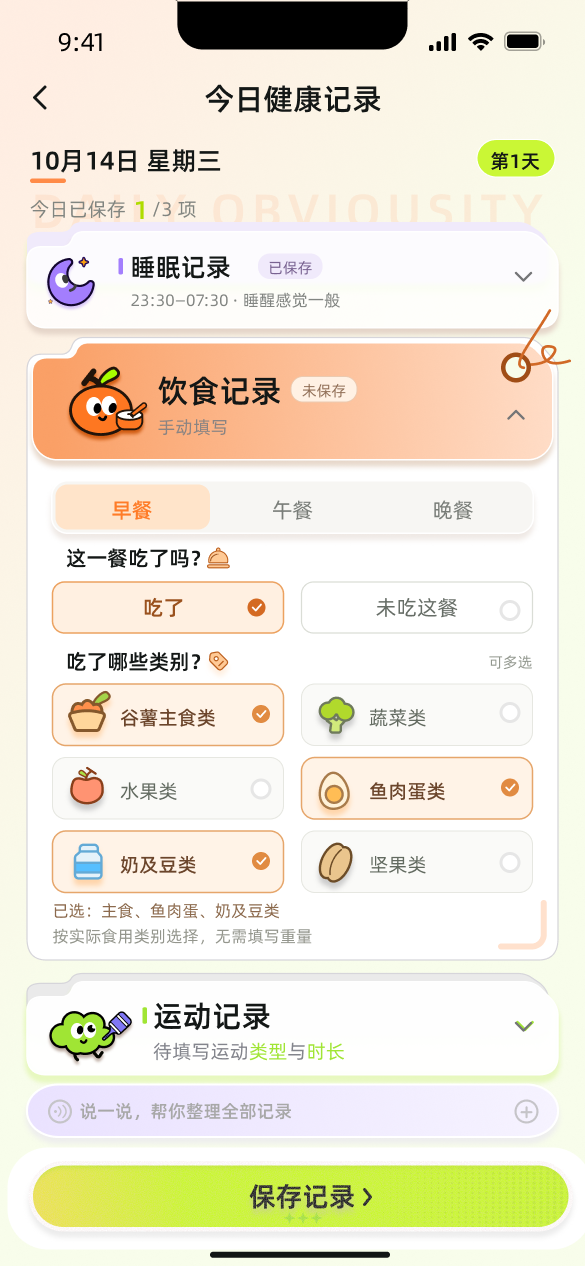
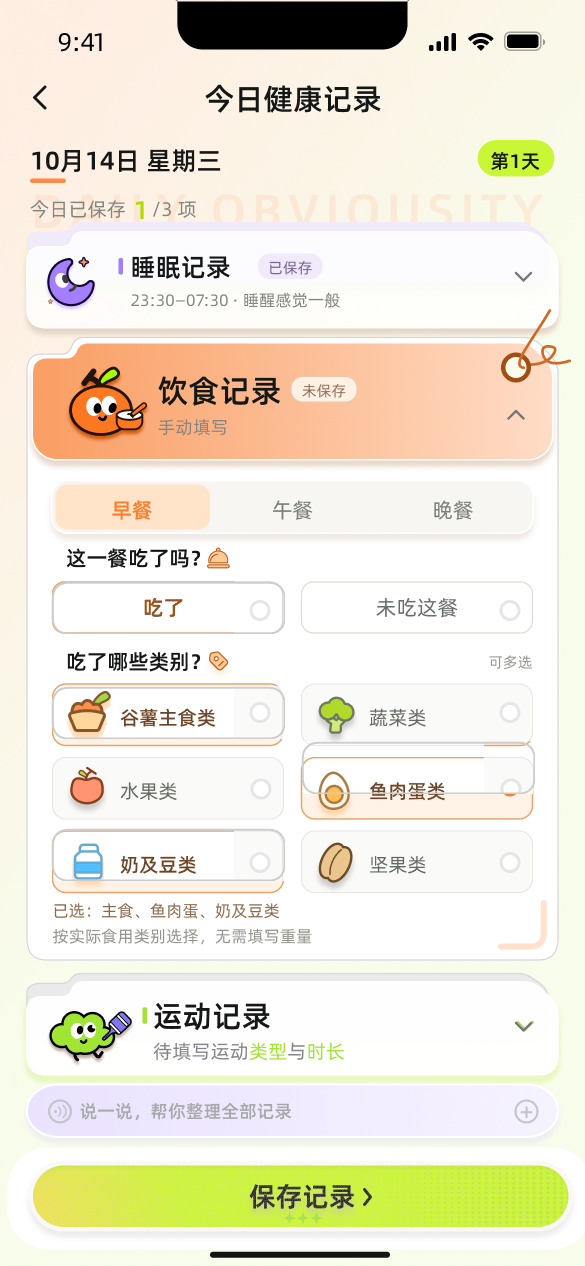
Use CSS-only diet chip selection within exact hotspots.
Drop text overlays so taps only add peach fill and orange stroke without font changes or overflow.

diff --git a/assets/portfolio.css b/assets/portfolio.css
@@ -595,7 +595,7 @@ body.tone-b .btn.primary:hover { background: #1558c7; }
 .hs-hp-diet-meal1 { left: 6%; width: 28%; top: 22.6%; height: 3.6%; border-radius: 999px; }
 .hs-hp-diet-meal2 { left: 36%; width: 28%; top: 22.6%; height: 3.6%; border-radius: 999px; }
 .hs-hp-diet-meal3 { left: 66%; width: 28%; top: 22.6%; height: 3.6%; border-radius: 999px; }
-/* 饮食选项热区：与稿面圆角卡片对齐（含描边） */
+/* 饮食选项热区：与稿面 234×53 卡片像素对齐 */
 .hs-hp-diet-ate,
 .hs-hp-diet-skip,
 .hs-hp-diet-cat1,
@@ -605,51 +605,40 @@ body.tone-b .btn.primary:hover { background: #1558c7; }
 .hs-hp-diet-cat5,
 .hs-hp-diet-cat6 {
   width: 40%;
-  height: 4.19%;
-  border-radius: 12px;
+  height: 4.186%;
+  /* 对应稿面约 12px 圆角，随热区宽高缩放 */
+  border-radius: 5.13% / 22.64%;
   z-index: 4;
+  box-sizing: border-box;
 }
 .hs-hp-diet-ate,
 .hs-hp-diet-cat1,
 .hs-hp-diet-cat3,
-.hs-hp-diet-cat5 { left: 8.72%; }
+.hs-hp-diet-cat5 { left: 8.718%; }
 .hs-hp-diet-skip,
 .hs-hp-diet-cat2,
 .hs-hp-diet-cat4,
-.hs-hp-diet-cat6 { left: 51.45%; }
+.hs-hp-diet-cat6 { left: 51.453%; }
 .hs-hp-diet-ate,
-.hs-hp-diet-skip { top: 45.89%; }
+.hs-hp-diet-skip { top: 45.893%; }
 .hs-hp-diet-cat1,
-.hs-hp-diet-cat2 { top: 54.19%; }
+.hs-hp-diet-cat2 { top: 54.186%; }
 .hs-hp-diet-cat3,
-.hs-hp-diet-cat4 { top: 58.53%; }
+.hs-hp-diet-cat4 { top: 58.531%; }
 .hs-hp-diet-cat5,
-.hs-hp-diet-cat6 { top: 65.4%; }
-/* 选中叠图：浅橙底+描边，圆角与热区一致 */
-.hp-diet-chip {
-  position: absolute;
-  z-index: 1;
-  pointer-events: none;
-  object-fit: fill;
-  border-radius: 12px;
-  overflow: hidden;
+.hs-hp-diet-cat6 { top: 65.403%; }
+/* 选中：仅热区内浅橙底+描边，不改字体、不超出热区 */
+.tone-health .hs-hp-diet-ate.is-on,
+.tone-health .hs-hp-diet-skip.is-on,
+.tone-health .hs-hp-diet-cat1.is-on,
+.tone-health .hs-hp-diet-cat2.is-on,
+.tone-health .hs-hp-diet-cat3.is-on,
+.tone-health .hs-hp-diet-cat4.is-on,
+.tone-health .hs-hp-diet-cat5.is-on,
+.tone-health .hs-hp-diet-cat6.is-on {
+  background: rgba(255, 240, 225, 0.82) !important;
+  box-shadow: inset 0 0 0 1.5px rgb(210, 130, 70) !important;
 }
-.hp-diet-chip.ate,
-.hp-diet-chip.cat1,
-.hp-diet-chip.cat3,
-.hp-diet-chip.cat5 { left: 8.72%; width: 40%; }
-.hp-diet-chip.skip,
-.hp-diet-chip.cat2,
-.hp-diet-chip.cat4,
-.hp-diet-chip.cat6 { left: 51.45%; width: 40%; }
-.hp-diet-chip.ate,
-.hp-diet-chip.skip { top: 45.89%; height: 4.19%; }
-.hp-diet-chip.cat1,
-.hp-diet-chip.cat2 { top: 54.19%; height: 4.19%; }
-.hp-diet-chip.cat3,
-.hp-diet-chip.cat4 { top: 58.53%; height: 4.19%; }
-.hp-diet-chip.cat5,
-.hp-diet-chip.cat6 { top: 65.4%; height: 4.19%; }
 .hs-hp-diet-ex-row { left: 4.5%; right: 4.5%; top: 78%; height: 6.5%; border-radius: 16px; }
 .hs-hp-diet-voice { left: 4.8%; right: 5%; top: 85.8%; height: 3.9%; border-radius: 999px; }
 .hs-hp-diet-save { left: 5.6%; right: 2.8%; top: 92.1%; height: 4.9%; border-radius: 999px; }

diff --git a/assets/health-proto.js b/assets/health-proto.js
@@ -101,7 +101,7 @@
       timePicker: true,
     },
     diet: {
-      src: "assets/works/health/proto/diet.png",
+      src: "assets/works/health/proto/diet.png?v=20261103w",
       title: "饮食记录",
       hint: "「吃了」与谷薯/鱼肉蛋/奶豆默认选中；点选项切换，类别可多选；保存 → 运动",
       spots: [
@@ -294,33 +294,8 @@
 
   const clearHotspots = () => {
     screen
-      .querySelectorAll(
-        ".phone-hotspot, .hp-time-picker, .hp-duration-badge, .hp-sleep-val, .hp-diet-chip"
-      )
+      .querySelectorAll(".phone-hotspot, .hp-time-picker, .hp-duration-badge, .hp-sleep-val")
       .forEach((el) => el.remove());
-  };
-
-  const dietChipMap = [
-    { key: "hs-hp-diet-ate", group: "ate", cls: "ate", base: "diet-ate" },
-    { key: "hs-hp-diet-skip", group: "ate", cls: "skip", base: "diet-skip" },
-    { key: "hs-hp-diet-cat1", group: "cat", cls: "cat1", base: "diet-cat1" },
-    { key: "hs-hp-diet-cat2", group: "cat", cls: "cat2", base: "diet-cat2" },
-    { key: "hs-hp-diet-cat3", group: "cat", cls: "cat3", base: "diet-cat3" },
-    { key: "hs-hp-diet-cat4", group: "cat", cls: "cat4", base: "diet-cat4" },
-    { key: "hs-hp-diet-cat5", group: "cat", cls: "cat5", base: "diet-cat5" },
-    { key: "hs-hp-diet-cat6", group: "cat", cls: "cat6", base: "diet-cat6" },
-  ];
-
-  const syncDietChips = () => {
-    screen.querySelectorAll(".hp-diet-chip").forEach((el) => el.remove());
-    dietChipMap.forEach((chip) => {
-      const on = !!(toggleState[chip.group] && toggleState[chip.group][chip.key]);
-      const imgEl = document.createElement("img");
-      imgEl.className = `hp-diet-chip ${chip.cls}`;
-      imgEl.src = `assets/works/health/proto/${chip.base}-${on ? "on" : "off"}.png`;
-      imgEl.alt = "";
-      screen.appendChild(imgEl);
-    });
   };
 
   const go = (id) => {
@@ -363,7 +338,6 @@
           toggleState[group][key] = true;
         }
         syncToggleVisual();
-        if (group === "ate" || group === "cat") syncDietChips();
       });
     } else if (spot.action === "duration") {
       btn.addEventListener("click", (e) => {
@@ -580,7 +554,6 @@
     (m.spots || []).forEach((s) => addHotspot(s));
     if (m.timePicker) mountTimePicker();
     if (id === "sleep") mountSleepValues();
-    if (id === "diet") syncDietChips();
     if (id === "exercise") mountDurationBadge();
   };
 

diff --git a/health-app.html b/health-app.html
@@ -8,7 +8,7 @@
   <link rel="preconnect" href="https://fonts.googleapis.com" />
   <link rel="preconnect" href="https://fonts.gstatic.com" crossorigin />
   <link href="https://fonts.googleapis.com/css2?family=Source+Sans+3:ital,wght@0,400;0,500;0,600;0,700;1,600;1,700&family=Noto+Sans+SC:wght@400;500;600;700&display=swap" rel="stylesheet" />
-  <link rel="stylesheet" href="assets/portfolio.css?v=20261103v" />
+  <link rel="stylesheet" href="assets/portfolio.css?v=20261103w" />
 </head>
 <body class="tone-health">
   <div class="pf-top"><div class="pf-jump" aria-label="作品直达">
@@ -123,6 +123,6 @@
   </footer>
 
   <script src="assets/portfolio.js"></script>
-  <script src="assets/health-proto.js?v=20261103v"></script>
+  <script src="assets/health-proto.js?v=20261103w"></script>
 </body>
 </html>
